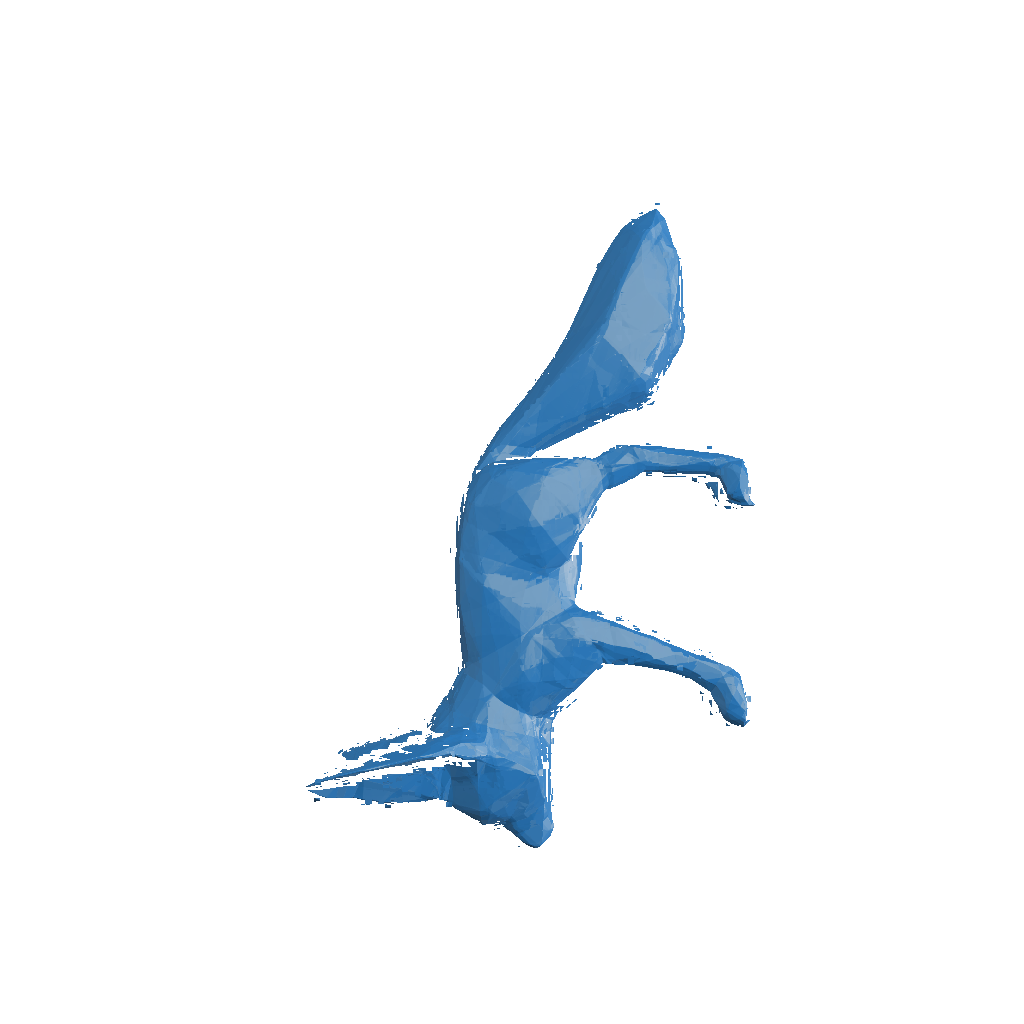
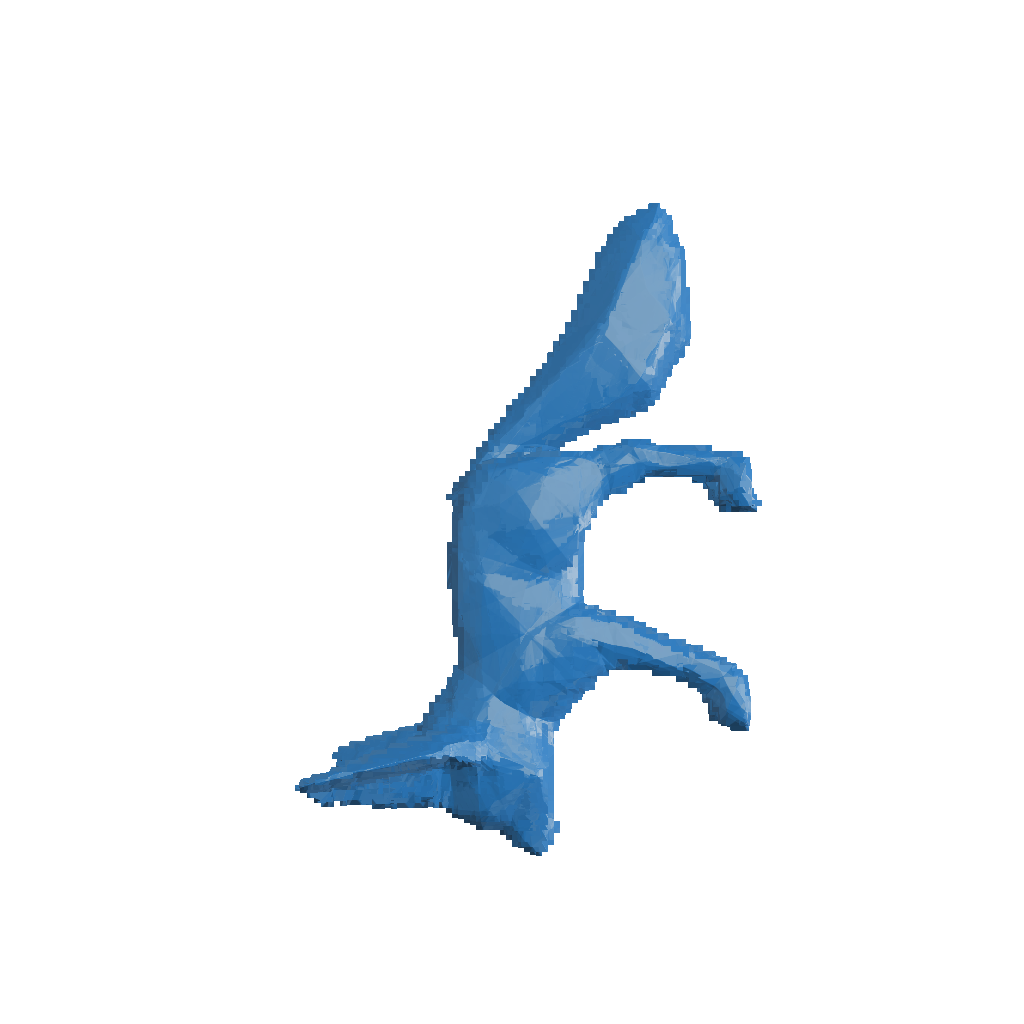
refined ray-shell intersection calculation

diff --git a/src/queries.py b/src/queries.py
@@ -219,6 +219,8 @@ def cast_rays_shell_based(
     center = (lower + upper) / 2.
     print("branching method: ", branching_method)
     node_lower_tree, node_upper_tree, node_type_tree, split_dim_tree, split_val_tree, lAs, lbs, uAs, ubs, node_guaranteed = [torch.from_numpy(val).to(device) for val in np.load(load_from).values()]
+    As = (lAs + uAs) / 2.
+    bs = (lbs + ubs) / 2.
     split_depth = int(math.log2(len(node_guaranteed)))
     print(split_depth)
     t1 = time.time()
@@ -270,15 +272,11 @@ def cast_rays_shell_based(
         # test_mask = new_hit_node & (~hit_node)
         print(test_mask.sum())
         test_node_idx = point2node[test_mask]
-        normal_vector = lAs[test_node_idx]
-        offset = ubs[test_node_idx]
         p0 = roots[test_mask]
         d = dirs[test_mask]
-        test_t_l = (- offset - (normal_vector * p0).sum(dim=1)) / (normal_vector * d).sum(dim=1)
-        normal_vector = uAs[test_node_idx]
-        offset = ubs[test_node_idx]
-        test_t_u = (- offset - (normal_vector * p0).sum(dim=1)) / (normal_vector * d).sum(dim=1)
-        test_t = (test_t_l + test_t_u) / 2.
+        normal_vector = As[test_node_idx]
+        offset = bs[test_node_idx]
+        test_t = (- offset - (normal_vector * p0).sum(dim=1)) / (normal_vector * d).sum(dim=1)
 
         p = p0 + test_t.view(-1, 1) * d
 
@@ -292,8 +290,8 @@ def cast_rays_shell_based(
 
         # t_out = torch.where(torch.logical_and(miss_node, new_hit_node), t, t_out)
         # hit_node = torch.logical_or(hit_node, new_hit_node)
-        t_out = torch.where(torch.logical_and(miss_node, new_hit_node), t, t_out)
-        hit_node = torch.logical_or(hit_node, new_hit_node)
+        t_out = torch.where(torch.logical_and(miss_node, test_mask), t, t_out)
+        hit_node = torch.logical_or(hit_node, test_mask)
         miss_node = torch.logical_not(hit_node)
         is_hit = torch.logical_or(is_hit, test_mask)
 
@@ -320,7 +318,7 @@ def cast_rays_shell_based(
     #     # not_hit = torch.logical_not(is_hit)
     #     # hit_id_out[new_hit] = 1.
 
-    for step in range(50):
+    for step in range(0):
         bad_node = torch.logical_and(hit_node, not_hit)
         curr_ray_end = roots + (t_out.view(-1, 1) + delta) * dirs
         curr_output = torch.zeros((dirs.shape[0],))
